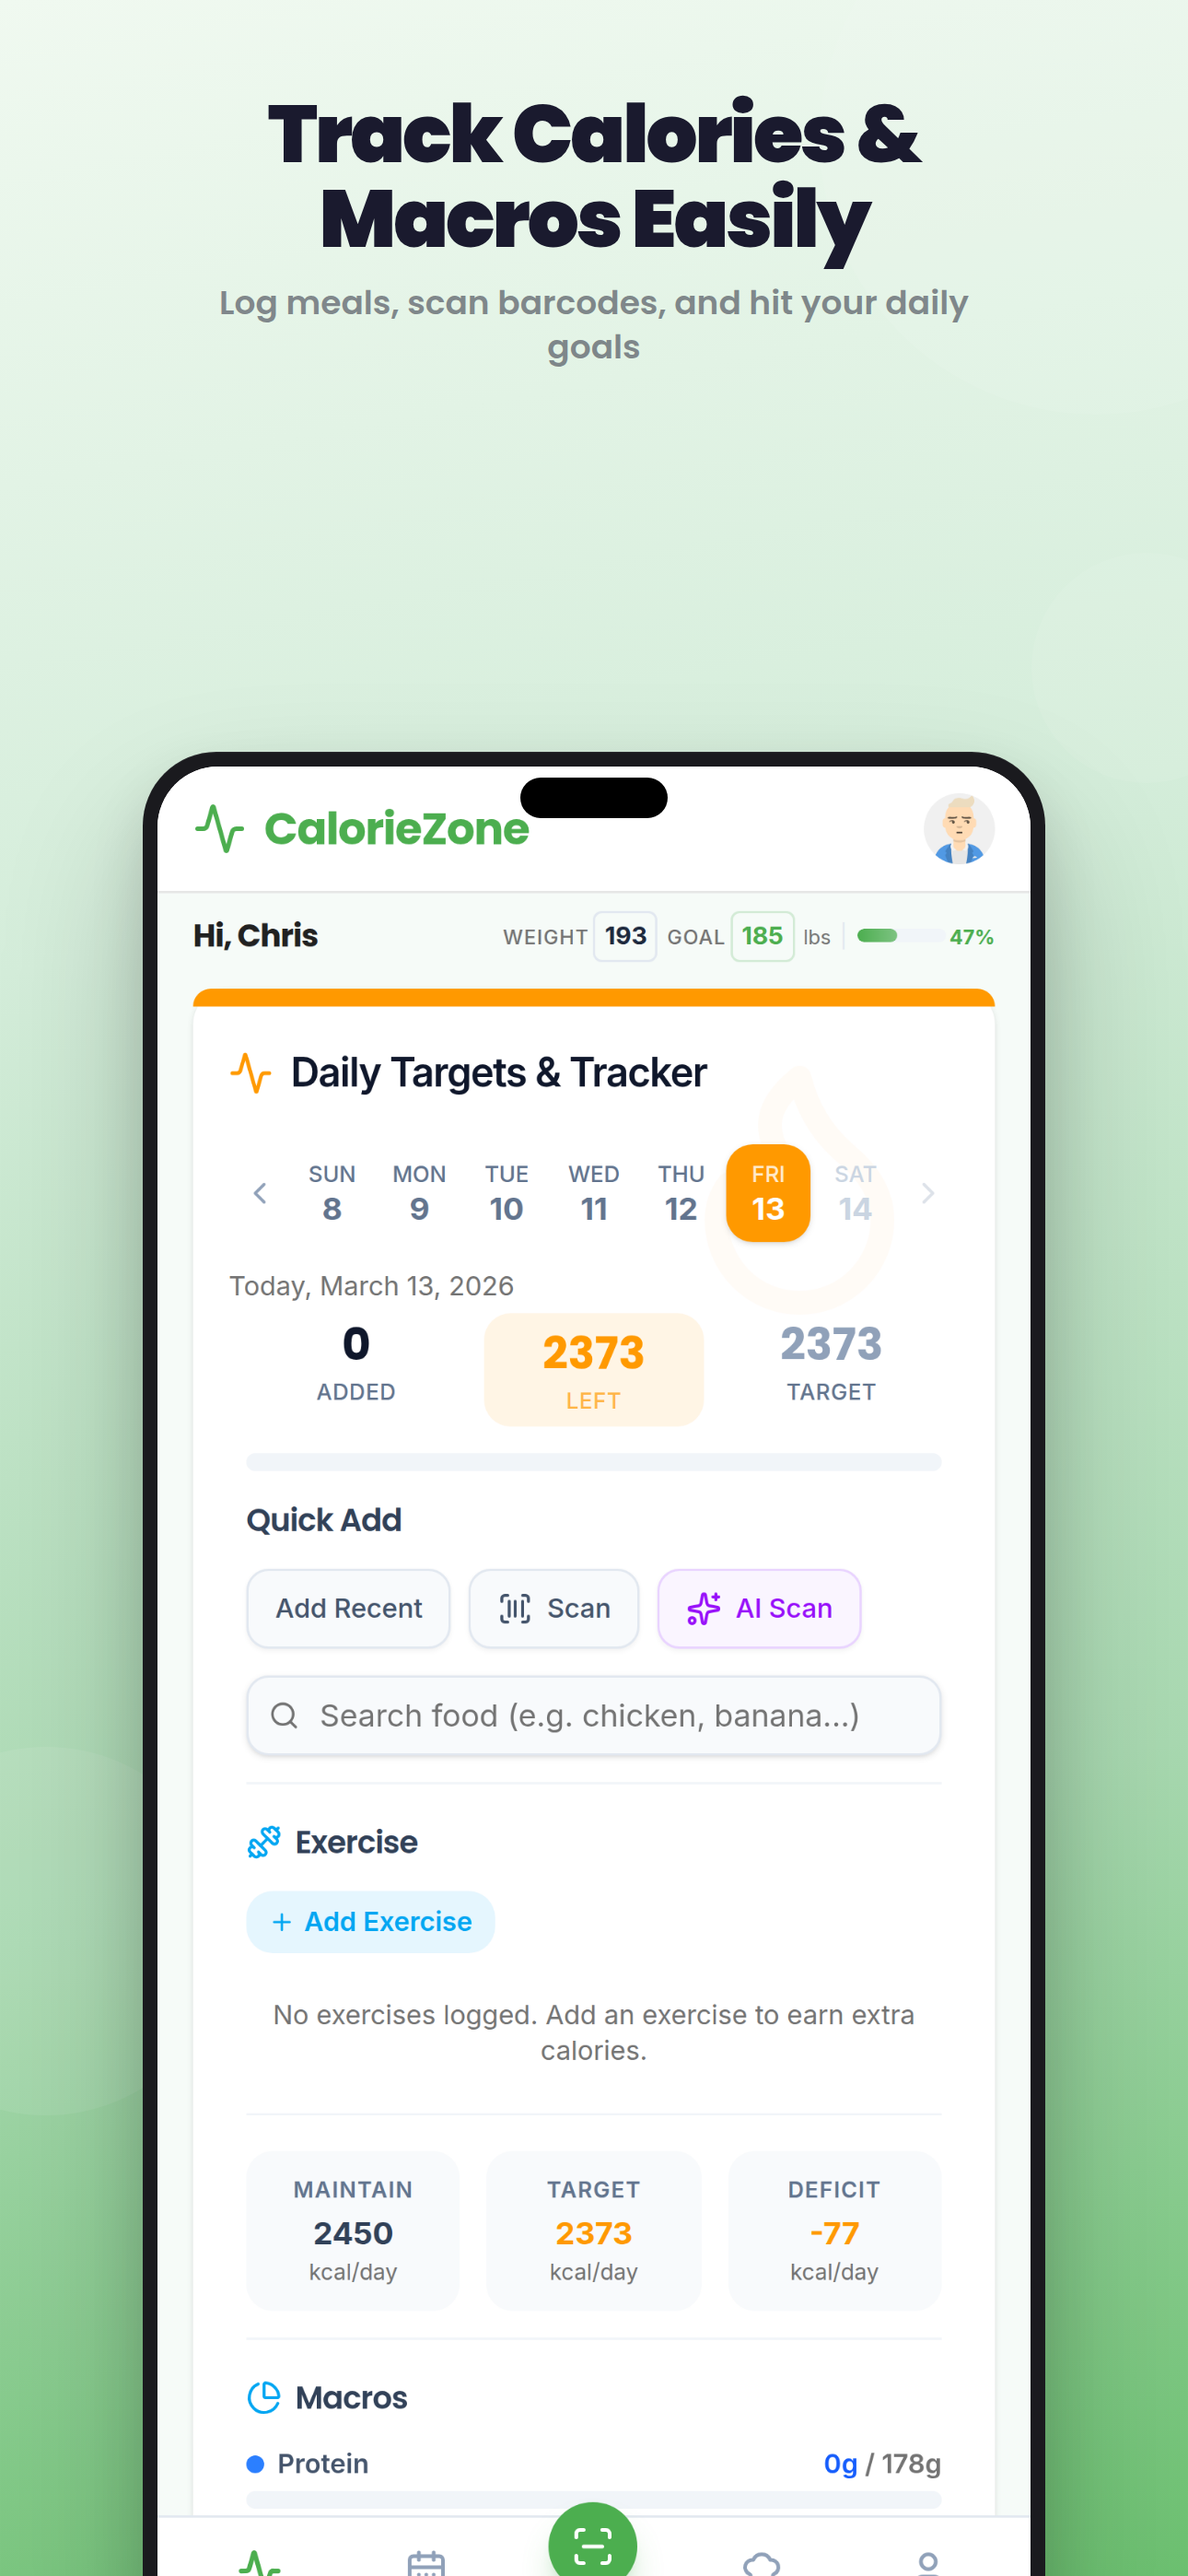
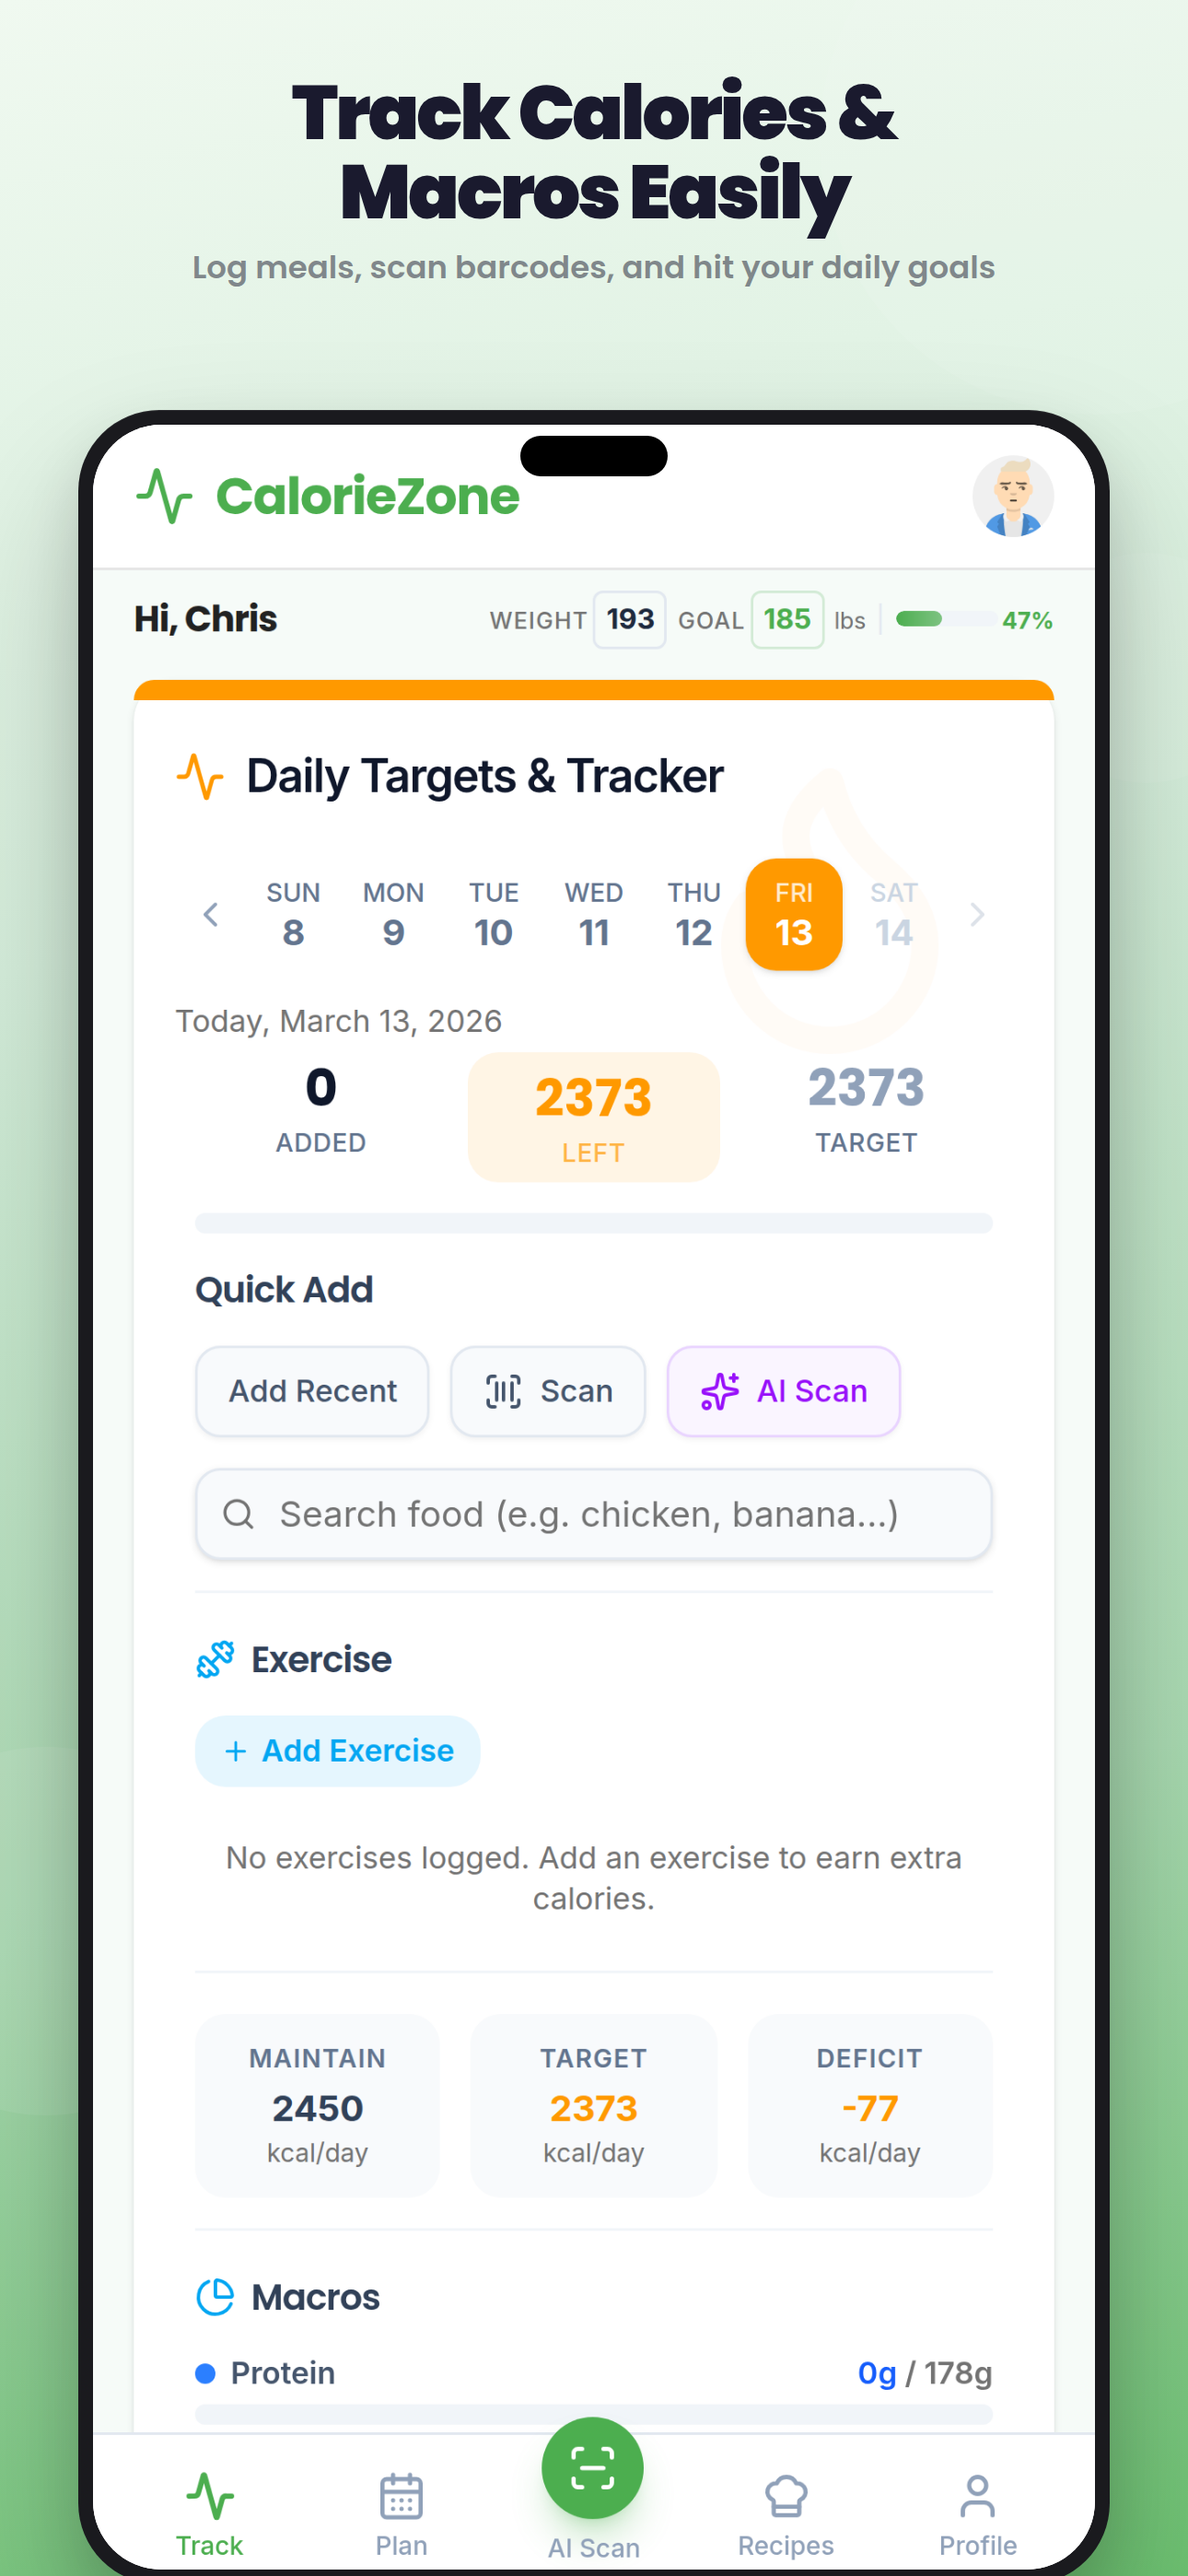
Make promotional screenshots larger and more centered
Update the HTML template for promotional screenshots, increasing the size and centering of the phone mockups, and adjusting text styles for better visual presentation.

Replit-Commit-Author: Agent
Replit-Commit-Session-Id: d0c98cd4-3401-4b9a-9fcc-3167ef5b7d4c
Replit-Commit-Checkpoint-Type: full_checkpoint
Replit-Commit-Event-Id: 1a54ab8f-3931-424e-9b46-dfe74ceee36e
Replit-Commit-Screenshot-Url: https://storage.googleapis.com/screenshot-production-us-central1/b5252e75-7d72-4a27-a063-837869a7ea78/d0c98cd4-3401-4b9a-9fcc-3167ef5b7d4c/rSIcFYS
Replit-Helium-Checkpoint-Created: true

diff --git a/screenshots/promo-template.html b/screenshots/promo-template.html
@@ -35,22 +35,22 @@
   }
 
   .text-area {
-    padding: 100px 80px 0;
+    padding: 80px 70px 0;
     text-align: center;
     z-index: 2;
   }
 
   .headline {
-    font-size: 88px;
+    font-size: 82px;
     font-weight: 900;
     line-height: 1.05;
     color: #1a1a2e;
     letter-spacing: -3px;
-    margin-bottom: 20px;
+    margin-bottom: 16px;
   }
 
   .subtext {
-    font-size: 36px;
+    font-size: 34px;
     font-weight: 600;
     color: rgba(26, 26, 46, 0.5);
     line-height: 1.35;
@@ -61,29 +61,30 @@
   .phone-container {
     flex: 1;
     display: flex;
-    align-items: flex-end;
+    align-items: center;
     justify-content: center;
     z-index: 2;
+    padding-top: 20px;
   }
 
   .phone-frame {
-    width: 980px;
-    height: 2060px;
+    width: 1120px;
+    height: 2360px;
     background: #1a1a1e;
-    border-radius: 80px;
+    border-radius: 88px;
     padding: 16px;
     box-shadow:
       0 80px 160px rgba(0,0,0,0.2),
       0 30px 60px rgba(0,0,0,0.12),
       inset 0 1px 0 rgba(255,255,255,0.08);
     position: relative;
-    margin-bottom: -80px;
+    margin-bottom: -120px;
   }
 
   .phone-screen {
     width: 100%;
     height: 100%;
-    border-radius: 66px;
+    border-radius: 74px;
     overflow: hidden;
     background: #fff;
   }
